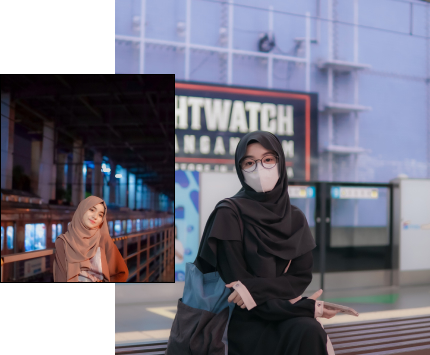
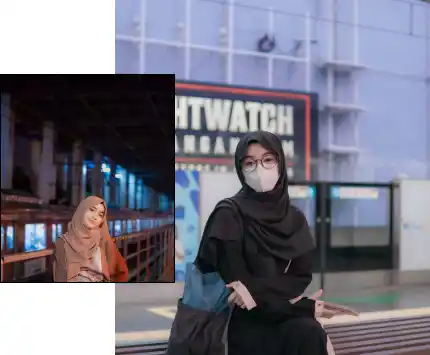
menambahkan gambar

diff --git a/src/assets/utils/index.js b/src/assets/utils/index.js
@@ -1,6 +1,6 @@
 import logo from "../Images/logo.jpg";
 import profileImage from "../Images/shoot/aboutMe.webp";
-import imageAbout from "../Images/shoot/photo2.webp";
+import imageAbout from "../Images/about1.webp";
 import imageAboutTwo from "../Images/about.webp";
 import category_satu from "../Images/category/photo_satu.jpg";
 import category_dua from "../Images/category/photo_dua.jpg";
